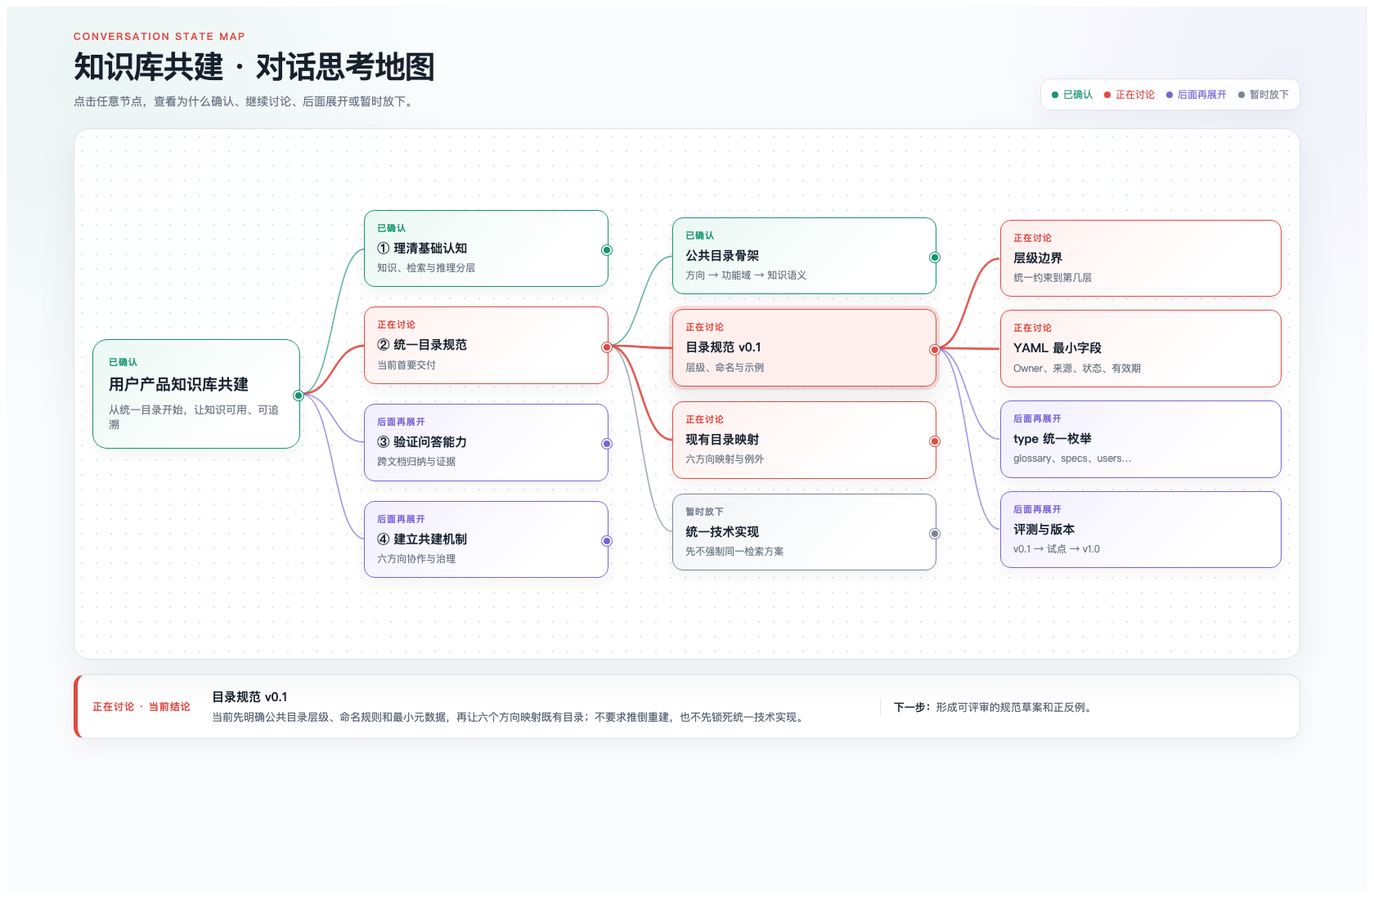
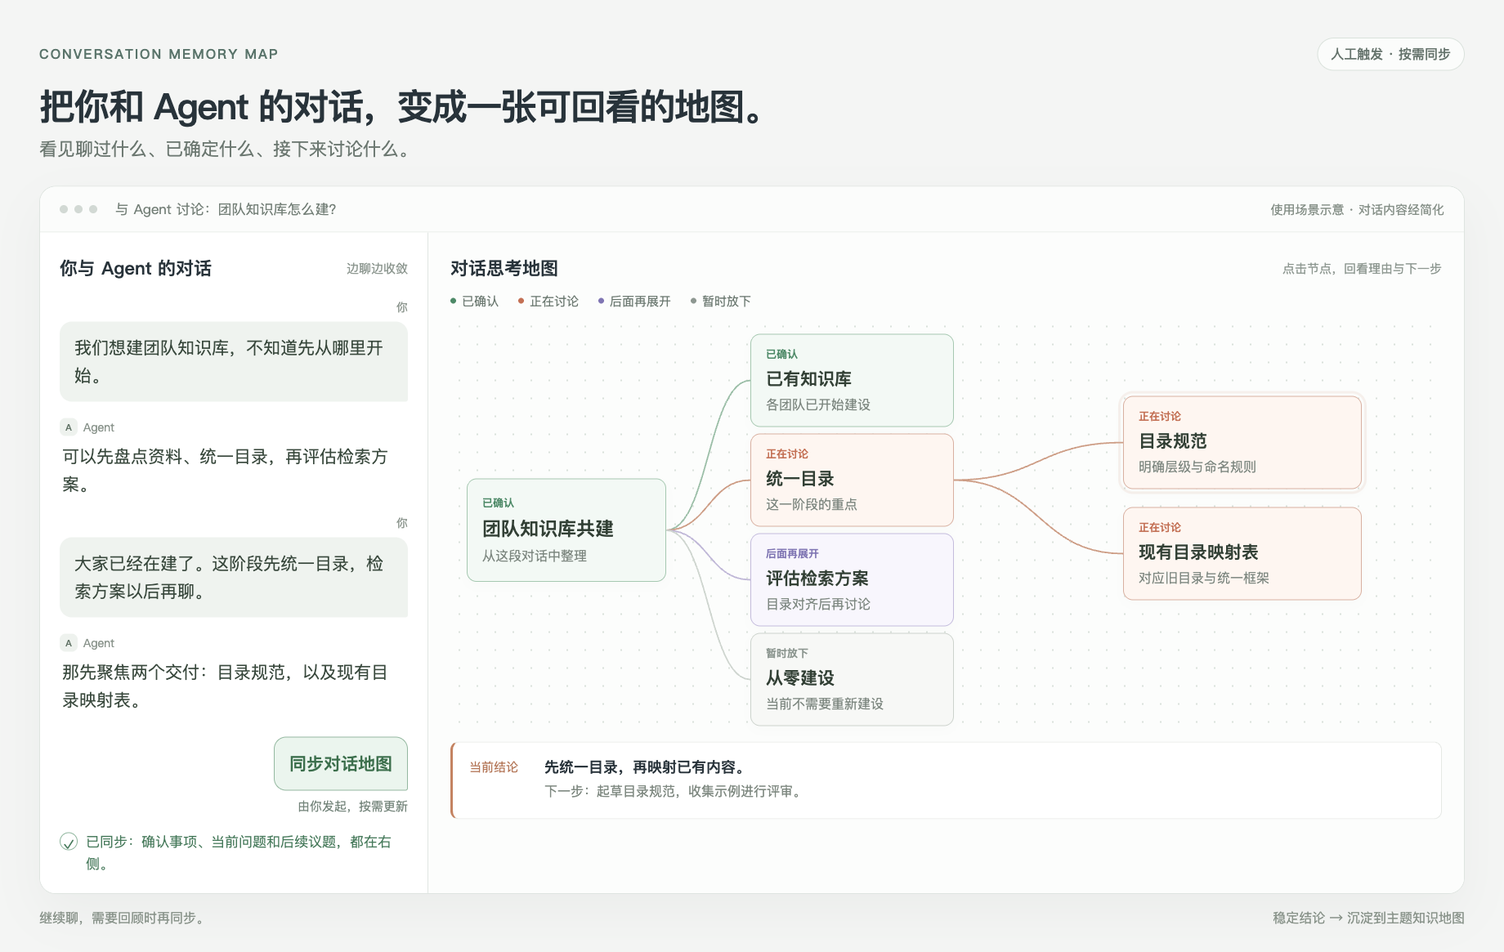
Clarify Agent conversation use cases and add bilingual side-by-side examples

diff --git a/examples/conversation-to-map.html b/examples/conversation-to-map.html
@@ -1,0 +1,74 @@
+<!doctype html>
+<html lang="zh-CN">
+<head>
+<meta charset="utf-8">
+<meta name="viewport" content="width=device-width, initial-scale=1">
+<title>Conversation Memory Map — Conversation to map</title>
+<style>
+*{box-sizing:border-box}body{margin:0;color:#25333b;background:#f3f5f4;font-family:Inter,"PingFang SC","Microsoft YaHei",system-ui,sans-serif}button{font:inherit}main{width:1840px;padding:46px 48px 30px;margin:auto}.brand{display:flex;align-items:center;justify-content:space-between;color:#53756a;font-size:16px;font-weight:650;letter-spacing:2px}.trigger-badge{color:#62746c;letter-spacing:0;border:1px solid #d8e2db;border-radius:30px;padding:8px 16px;background:#fafcfb;font-weight:500}h1{font-size:44px;line-height:1.2;letter-spacing:-1.6px;margin:17px 0 10px;font-weight:650}.subtitle{font-size:22px;color:#697870;margin:0 0 30px}.window{background:white;border:1px solid #dce4df;border-radius:20px;overflow:hidden;box-shadow:0 24px 60px #263a2c0c}.window-bar{height:56px;background:#fbfcfb;border-bottom:1px solid #e4e9e5;display:flex;align-items:center;gap:22px;padding:0 24px;color:#718077;font-size:17px}.dots{display:flex;gap:8px}.dots i{display:block;width:10px;height:10px;background:#d0d9d3;border-radius:100%}.window-label{flex:1}.window-note{font-size:15px;color:#839087}.workspace{display:grid;grid-template-columns:475px 1fr;min-height:748px}.conversation{padding:28px 24px 22px;border-right:1px solid #e0e6e2;background:#fff}.panel-title{display:flex;justify-content:space-between;align-items:center;font-size:22px;font-weight:600;margin:0 0 22px}.panel-title small{color:#8b9890;font-size:15px;font-weight:400}.message{margin:0 0 20px}.speaker{display:flex;align-items:center;gap:7px;font-size:14px;color:#87948b;margin:0 0 8px}.avatar{display:inline-grid;place-items:center;border-radius:7px;width:22px;height:22px;color:#5e7567;background:#edf2ee;font-size:11px;font-weight:600}.message p{font-size:21px;line-height:1.62;margin:0;color:#34483b}.message.user .speaker{justify-content:flex-end}.message.user p{background:#eef3ef;padding:15px 18px;border-radius:15px 15px 3px 15px}.message.agent{padding-right:8px}.message.agent p{padding-left:3px}.message.sync{margin:28px 0 20px}.message.sync p{display:table;margin-left:auto;border:1px solid #8ab99e;background:#e9f5ed;color:#267049;font-weight:600}.sync-caption{font-size:15px;color:#70857a;margin:8px 0 0;text-align:right}.reply{display:flex;gap:10px;color:#317a57;font-size:17px;line-height:1.6;margin-top:10px}.reply .check{display:inline-grid;place-items:center;flex:0 0 22px;height:22px;border:1px solid #82b69a;border-radius:100%;margin-top:2px}.map{padding:28px 27px 22px;background:#fcfdfc}.map .panel-title{margin-bottom:14px}.legend{display:flex;gap:24px;font-size:15px;color:#687970;margin-bottom:10px}.legend span{display:flex;gap:7px;align-items:center}.legend i{height:7px;width:7px;border-radius:50%;background:var(--color)}.confirmed{--color:#348b64;--soft:#f1f9f4;--line:#9dc9af}.active{--color:#d06a4d;--soft:#fff5f0;--line:#e0ae9e}.future{--color:#8174b7;--soft:#f8f6fd;--line:#c5bbdf}.parked{--color:#8b9790;--soft:#f6f8f6;--line:#cbd3cc}.tree{position:relative;height:502px;margin:2px 0 17px;background-image:radial-gradient(#d7e1da .8px,transparent .8px);background-size:22px 22px;border-radius:10px}.edges{position:absolute;inset:0;width:100%;height:100%;pointer-events:none}.edges path{fill:none;stroke-width:1.8}.node{position:absolute;display:flex;flex-direction:column;gap:7px;width:249px;min-height:103px;padding:14px 18px;border:1px solid var(--line);border-radius:12px;background:var(--soft);text-align:left;cursor:pointer;color:#2e4034;box-shadow:0 5px 15px #3b4e4105}.node .status{color:var(--color);font-size:13px;font-weight:600}.node strong{font-size:21px;line-height:1.35;font-weight:600}.node .note{color:#7a877f;font-size:16px;line-height:1.45}.node.selected{outline:3px solid #dba58d26;outline-offset:3px}.node:focus-visible{outline:3px solid #458464;outline-offset:3px}.node.root{left:20px;top:197px;width:244px;padding:19px 18px}.node.root strong{font-size:23px}.node.level-one{left:367px}.node.level-two{left:823px;width:292px}.node[data-id="existing"]{top:20px}.node[data-id="directory"]{top:142px}.node[data-id="search"]{top:264px}.node[data-id="rebuild"]{top:386px}.node[data-id="spec"]{top:96px}.node[data-id="mapping"]{top:232px}.detail{border:1px solid #e5e9e5;border-left:3px solid #cf7f5a;border-radius:10px;background:white;padding:17px 20px;min-height:95px;display:flex;gap:18px;align-items:flex-start}.detail-label{font-size:15px;min-width:74px;color:#bd714f;padding-top:2px}.detail-title{font-size:18px;display:block;margin-bottom:5px;font-weight:600}.detail p{margin:0;font-size:16px;color:#7c8980;line-height:1.6}.foot{display:flex;justify-content:space-between;gap:24px;font-size:16px;color:#87948a;margin-top:18px}.foot b{color:#597563;font-weight:500}.en h1{font-size:45px}.en .message p{font-size:20px;line-height:1.55}.en .message{margin-bottom:20px}.en .message.sync{margin-top:22px}.en .node strong{font-size:20px}.en .node.root strong{font-size:23px}.en .node .note{font-size:15px}.en .detail-label{min-width:120px}.en .panel-title small{font-size:14px}@media(max-width:1839px){main{margin:0}}
+</style>
+</head>
+<body>
+<main>
+  <div class="brand"><span>CONVERSATION MEMORY MAP</span><span class="trigger-badge" data-copy="badge"></span></div>
+  <h1 data-copy="headline"></h1>
+  <p class="subtitle" data-copy="subtitle"></p>
+  <div class="window">
+    <div class="window-bar"><span class="dots" aria-hidden="true"><i></i><i></i><i></i></span><span class="window-label" data-copy="project"></span><span class="window-note" data-copy="illustration"></span></div>
+    <div class="workspace">
+      <section class="conversation" aria-label="Conversation">
+        <h2 class="panel-title"><span data-copy="conversation"></span><small data-copy="conversationHint"></small></h2>
+        <div class="message user"><div class="speaker" data-copy="you"></div><p data-copy="userOne"></p></div>
+        <div class="message agent"><div class="speaker"><span class="avatar">A</span>Agent</div><p data-copy="agentOne"></p></div>
+        <div class="message user"><div class="speaker" data-copy="you"></div><p data-copy="userTwo"></p></div>
+        <div class="message agent"><div class="speaker"><span class="avatar">A</span>Agent</div><p data-copy="agentTwo"></p></div>
+        <div class="message user sync"><p data-copy="sync"></p><div class="sync-caption" data-copy="syncHint"></div></div>
+        <div class="reply"><span class="check" aria-hidden="true">✓</span><span data-copy="reply"></span></div>
+      </section>
+      <section class="map" aria-label="Conversation thinking map">
+        <h2 class="panel-title"><span data-copy="mapTitle"></span><small data-copy="mapHint"></small></h2>
+        <div class="legend"><span class="confirmed"><i></i><span data-copy="confirmed"></span></span><span class="active"><i></i><span data-copy="active"></span></span><span class="future"><i></i><span data-copy="future"></span></span><span class="parked"><i></i><span data-copy="parked"></span></span></div>
+        <div class="tree" id="tree"><svg class="edges" aria-hidden="true"></svg></div>
+        <aside class="detail" aria-live="polite"><span class="detail-label" data-copy="conclusion"></span><div><strong class="detail-title" id="detail-title"></strong><p id="detail-note"></p></div></aside>
+      </section>
+    </div>
+  </div>
+  <footer class="foot"><span data-copy="footerLeft"></span><span data-copy="footerRight"></span></footer>
+</main>
+<script>
+const en = location.hash === '#en';
+document.documentElement.lang=en?'en':'zh-CN';
+document.body.classList.toggle('en',en);
+const copy=en?{
+ badge:'Human-triggered sync',headline:'Your conversation with an Agent, mapped on demand.',subtitle:'Revisit what you discussed, what you decided, and what comes next.',project:'Planning a team knowledge base',illustration:'Illustrative scenario · simplified dialogue',conversation:'You + Agent',conversationHint:'Discuss and refine',you:'You',
+ userOne:'We want a team knowledge base. Where should we start?',agentOne:'We could inventory documents, agree on a structure, then evaluate search.',userTwo:'Teams already have their own. Let’s align the structure first and discuss search later.',agentTwo:'Then the first deliverables are a directory standard and a mapping of existing folders.',sync:'Sync the conversation map',syncHint:'An explicit request to update',reply:'Synced. Decisions and open threads are now on the right.',mapTitle:'Conversation thinking map',mapHint:'Click a node to revisit the reasoning',confirmed:'Confirmed',active:'Discussing',future:'Revisit later',parked:'Parked',conclusion:'Current conclusion',footerLeft:'Keep talking. Sync when you want to take stock.',footerRight:'Stable conclusions → topic knowledge map'
+}:{
+ badge:'人工触发 · 按需同步',headline:'把你和 Agent 的对话，变成一张可回看的地图。',subtitle:'看见聊过什么、已确定什么、接下来讨论什么。',project:'与 Agent 讨论：团队知识库怎么建？',illustration:'使用场景示意 · 对话内容经简化',conversation:'你与 Agent 的对话',conversationHint:'边聊边收敛',you:'你',
+ userOne:'我们想建团队知识库，不知道先从哪里开始。',agentOne:'可以先盘点资料、统一目录，再评估检索方案。',userTwo:'大家已经在建了。这阶段先统一目录，检索方案以后再聊。',agentTwo:'那先聚焦两个交付：目录规范，以及现有目录映射表。',sync:'同步对话地图',syncHint:'由你发起，按需更新',reply:'已同步：确认事项、当前问题和后续议题，都在右侧。',mapTitle:'对话思考地图',mapHint:'点击节点，回看理由与下一步',confirmed:'已确认',active:'正在讨论',future:'后面再展开',parked:'暂时放下',conclusion:'当前结论',footerLeft:'继续聊，需要回顾时再同步。',footerRight:'稳定结论 → 沉淀到主题知识地图'
+};
+document.querySelectorAll('[data-copy]').forEach(el=>el.textContent=copy[el.dataset.copy]);
+const nodes=en?[
+ {id:'root',cls:'root confirmed',status:'confirmed',title:'Team knowledge base',note:'Organized from this conversation',detail:'Start with what teams already have.',next:'Use the existing material to agree on a shared structure.'},
+ {id:'existing',parent:'root',cls:'level-one confirmed',status:'confirmed',title:'Existing content',note:'Teams have already started',detail:'Build on the existing knowledge bases.',next:'The user confirmed that teams are already creating their own.'},
+ {id:'directory',parent:'root',cls:'level-one active',status:'active',title:'Align the structure',note:'The focus for this phase',detail:'Align the directory structure first.',next:'Prepare a shared standard and map the existing team folders to it.'},
+ {id:'search',parent:'root',cls:'level-one future',status:'future',title:'Evaluate search',note:'Revisit after alignment',detail:'Discuss search after the structure is aligned.',next:'The user explicitly moved this question to a later phase.'},
+ {id:'rebuild',parent:'root',cls:'level-one parked',status:'parked',title:'Build from scratch',note:'Outside the current scope',detail:'A rebuild is outside the current scope.',next:'Use the teams’ existing work as the starting point.'},
+ {id:'spec',parent:'directory',cls:'level-two active selected',status:'active',title:'Directory standard',note:'Define levels and naming',detail:'Align the structure, then map existing folders.',next:'Next: draft the directory standard and collect examples for review.'},
+ {id:'mapping',parent:'directory',cls:'level-two active',status:'active',title:'Existing-folder mapping',note:'Connect old and shared structures',detail:'Map each team’s existing folders.',next:'Identify matches, exceptions, and areas that need clarification.'}
+]:[
+ {id:'root',cls:'root confirmed',status:'confirmed',title:'团队知识库共建',note:'从这段对话中整理',detail:'从各团队已有的知识库出发。',next:'以现有资料为基础，形成大家能共同使用的目录框架。'},
+ {id:'existing',parent:'root',cls:'level-one confirmed',status:'confirmed',title:'已有知识库',note:'各团队已开始建设',detail:'各团队已经在建设自己的知识库。',next:'这来自用户明确补充的现状，是后续讨论的前提。'},
+ {id:'directory',parent:'root',cls:'level-one active',status:'active',title:'统一目录',note:'这一阶段的重点',detail:'当前先统一目录层级框架。',next:'先明确共同规范，再把各团队的已有目录对应进来。'},
+ {id:'search',parent:'root',cls:'level-one future',status:'future',title:'评估检索方案',note:'目录对齐后再讨论',detail:'检索方案留到后续讨论。',next:'用户明确将这项议题放到后面，不作为本阶段的前置条件。'},
+ {id:'rebuild',parent:'root',cls:'level-one parked',status:'parked',title:'从零建设',note:'当前不需要重新建设',detail:'本阶段以已有建设成果为起点。',next:'从零重新建设不在当前范围内。'},
+ {id:'spec',parent:'directory',cls:'level-two active selected',status:'active',title:'目录规范',note:'明确层级与命名规则',detail:'先统一目录，再映射已有内容。',next:'下一步：起草目录规范，收集示例进行评审。'},
+ {id:'mapping',parent:'directory',cls:'level-two active',status:'active',title:'现有目录映射表',note:'对应旧目录与统一框架',detail:'把各团队现有目录映射到共同框架。',next:'识别可以直接对应的目录，以及需要单独讨论的例外。'}
+];
+const tree=document.getElementById('tree');
+for(const n of nodes){const el=document.createElement('button');el.type='button';el.dataset.id=n.id;el.className='node '+n.cls;el.setAttribute('aria-pressed',n.id==='spec'?'true':'false');for(const [tag,cls,text] of [['span','status',copy[n.status]],['strong','',n.title],['span','note',n.note]]){const child=document.createElement(tag);child.className=cls;child.textContent=text;el.append(child);}el.addEventListener('click',()=>select(n.id));tree.append(el);}
+function select(id){const n=nodes.find(n=>n.id===id);document.querySelectorAll('.node').forEach(el=>{el.classList.toggle('selected',el.dataset.id===id);el.setAttribute('aria-pressed',String(el.dataset.id===id));});document.getElementById('detail-title').textContent=n.detail;document.getElementById('detail-note').textContent=n.next;}
+function draw(){const svg=tree.querySelector('svg');const frame=tree.getBoundingClientRect();svg.setAttribute('viewBox',`0 0 ${frame.width} ${frame.height}`);svg.replaceChildren();for(const n of nodes.filter(n=>n.parent)){const a=tree.querySelector(`[data-id="${n.parent}"]`).getBoundingClientRect(),b=tree.querySelector(`[data-id="${n.id}"]`).getBoundingClientRect();const x=a.right-frame.left,y=a.top+a.height/2-frame.top,tx=b.left-frame.left,ty=b.top+b.height/2-frame.top,d=(tx-x)*.5;const p=document.createElementNS('http://www.w3.org/2000/svg','path');p.setAttribute('d',`M${x} ${y} C${x+d} ${y},${tx-d} ${ty},${tx} ${ty}`);p.setAttribute('stroke',{confirmed:'#92bfa5',active:'#d69a81',future:'#c1b6da',parked:'#ccd5ce'}[n.status]);svg.append(p);}}
+select('spec');draw();document.fonts.ready.then(draw);window.addEventListener('resize',draw);
+</script>
+</body>
+</html>

diff --git a/README_EN.md b/README_EN.md
@@ -2,15 +2,27 @@
 
 [中文](README.md) · [English](README_EN.md)
 
-Turn long, linear conversations into two maintainable views: a live map of the current discussion and a durable map of reusable knowledge.
+Turn conversations with your Agent into a visual map you can revisit.
 
-![Conversation thinking map example](examples/knowledge-base-conversation-map.png)
+You discuss requirements, compare options, and refine ideas with an Agent. As the conversation grows, it becomes harder to remember what you covered, why the direction changed, and what is still unresolved. Designed for Codex, this skill lets you keep thinking through conversation. When you want to take stock, say “Sync the conversation map” to see the discussion, current conclusions, and next steps on the right.
 
-## Why this skill exists
+![Conversation with an Agent on the left, an on-demand conversation map on the right](examples/conversation-to-map-en.png)
 
-Long conversations rarely suffer from a lack of content. They lose structure: what was discussed, why a decision was made, what remains open, and what should happen next all disappear beneath newer messages.
+*An illustrative scenario, not a screenshot of the Codex interface. The left panel shows a simplified conversation; the right panel organizes that conversation into a map. Updates are explicitly requested by the user.*
 
-This skill does not merely summarize the transcript. It maintains two complementary forms of memory:
+## When to use it
+
+**Working through requirements or options with an Agent.** A discussion often moves from “what should we build?” to “what is outside this phase?” The map keeps those branches and trade-offs visible, so you can revisit how the direction narrowed, not just read the final answer.
+
+**Learning or researching a topic with an Agent.** Concepts, examples, and untested ideas accumulate as you ask more questions. The map shows what is understood and what still needs exploration. Stable conclusions can then become reusable knowledge.
+
+**Taking stock during a long conversation, or returning to it later.** Instead of scrolling back through every message, review the current focus, confirmed points, and open questions before continuing.
+
+Think of it as navigation alongside your conversation, not a node for every message or a knowledge taxonomy disconnected from the discussion. A sync uses the conversation context and saved maps currently available to the Agent; it cannot automatically recover inaccessible history.
+
+## From conversation recall to reusable knowledge
+
+The skill maintains two complementary views:
 
 | Map | Purpose | What it keeps |
 |---|---|---|
@@ -75,8 +87,12 @@ conversation-memory-map/
 ├── references/map-spec.md         # English dual-map specification
 ├── references/map-spec.zh-CN.md   # Chinese dual-map specification
 └── examples/
-    └── knowledge-base-conversation-map.png
+    ├── knowledge-base-conversation-map.png # Chinese conversation + map
+    ├── conversation-to-map-en.png          # English scenario example
+    └── conversation-to-map.html            # Example source; #en for English
 ```
+
+Open the example HTML directly in a browser and click nodes to see their explanations. It demonstrates the presentation only; it does not read or listen to your real conversations.
 
 ## License
 

diff --git a/README.md b/README.md
@@ -2,15 +2,27 @@
 
 [中文](README.md) · [English](README_EN.md)
 
-把容易淹没在线性上下文里的长对话，转成两张可以持续维护的地图：一张追踪当前讨论状态，一张沉淀长期可复用知识。
+把你和 Agent 的对话，变成一张可以回看的信息地图。
 
-![知识库共建对话思考地图示例](examples/knowledge-base-conversation-map.png)
+你和 Agent 讨论需求、比较方案、澄清想法。聊得越久，越容易忘记之前说过什么、为什么改了方向、哪些问题还没解决。这个为 Codex 设计的 Skill，让你继续用对话思考，需要回顾时说一句“同步对话地图”，就在右侧看见讨论的脉络、当前结论和下一步。
 
-## 为什么做这个 Skill
+![左侧与 Agent 对话，右侧按需同步对话思考地图](examples/knowledge-base-conversation-map.png)
 
-长对话的问题通常不是“内容不够”，而是结构逐渐消失：聊过什么、为什么做出某个判断、哪些问题还没解决，都会被后续消息淹没。
+*使用场景示意，非 Codex 界面截图。左侧是经过简化的对话，右侧是由这段对话整理出的地图；更新由用户主动触发。*
 
-这个 Skill 不把聊天记录重新摘要一遍，而是维护两种互补的记忆：
+## 什么时候用
+
+**和 Agent 一起推敲需求或方案时。** 讨论常常会从“要做什么”转向“这阶段先不做什么”。地图保留这些分支和取舍，帮助你回看方向是怎么收敛的，而不只是留下一版最终答案。
+
+**和 Agent 一起学习、研究一个主题时。** 问题越问越多，概念、例子和待验证观点交织在一起。地图帮你看清哪些已经理解、哪些还需要展开；形成稳定结论后，再整理为以后可复用的知识。
+
+**长对话中途回顾，或隔一段时间回来继续时。** 不必从头翻聊天记录，先看当前焦点、已确认事项和开放问题，再接着聊。
+
+它是对话旁边的导航，不是要把每条消息都画成节点，也不是另起一套与讨论脱节的知识库目录。同步基于当前可访问的对话和已保存的地图，不会自动恢复已经不可见的历史。
+
+## 从对话回顾，到知识沉淀
+
+这个 Skill 维护两种互补的视图：
 
 | 地图 | 作用 | 主要内容 |
 |---|---|---|
@@ -75,8 +87,12 @@ conversation-memory-map/
 ├── references/map-spec.md         # 英文双地图规范
 ├── references/map-spec.zh-CN.md   # 中文双地图规范
 └── examples/
-    └── knowledge-base-conversation-map.png
+    ├── knowledge-base-conversation-map.png # 中文：左侧对话，右侧地图
+    ├── conversation-to-map-en.png          # 英文场景示例
+    └── conversation-to-map.html            # 示例源文件，#en 切换英文
 ```
+
+示例 HTML 可直接在浏览器中打开，点击节点查看对应解释。它用于演示呈现方式，不会读取或监听你的实际对话。
 
 ## License
 

diff --git a/SKILL.md b/SKILL.md
@@ -1,9 +1,11 @@
 ---
 name: conversation-memory-map
-description: Turn long, linear conversations into a traceable discussion-state map and a durable topic knowledge map. Use only when the user explicitly asks to create, sync, update, review, or preserve a conversation map, or invokes $conversation-memory-map; do not run on ordinary conversation turns.
+description: Turn conversations with an AI agent into a visual map of discussion branches, decisions, and open questions, with reusable conclusions kept in a topic knowledge map. Use only when the user explicitly asks to create, sync, update, review, or preserve a conversation map, or invokes $conversation-memory-map; do not run on ordinary conversation turns.
 ---
 
 # Conversation Memory Map
+
+Help a user revisit an ongoing conversation with an Agent: what they discussed, why the direction changed, what is settled, and what comes next. Useful for refining requirements, comparing approaches, researching a topic, and resuming a long discussion. Map the actual conversation, not a generic taxonomy of its subject.
 
 Maintain two linked but distinct views:
 
@@ -17,6 +19,8 @@ If the user asks for a continuous workflow without specifying a view, update bot
 ## Workflow
 
 Read the current conversation and any existing maps. Identify the governing question, major branches, confirmed conclusions, current focus, future questions, parked items, evidence, and next actions. Organize by meaning rather than transcript chronology. Do not turn every message into a node.
+
+Use only available conversation context and saved artifacts. If earlier messages are inaccessible, state that limitation instead of inventing the missing discussion or implying complete recall. Distinguish user-confirmed decisions from Agent suggestions and unresolved hypotheses.
 
 Update an existing map in place when it covers the same topic. Avoid generating a new file or browser tab on every sync. Preserve alternative versions the user explicitly asked to keep.
 

diff --git a/SKILL.zh-CN.md b/SKILL.zh-CN.md
@@ -1,5 +1,7 @@
 # 对话记忆地图 Skill（中文版）
 
+帮助用户回顾与 Agent 的持续对话：聊过什么、为什么改变方向、哪些已确定、下一步是什么。适用于推敲需求、比较方案、研究主题，以及回来继续一段长讨论。整理真实对话的脉络，而不是绘制一张通用的主题分类图。
+
 维护两个彼此关联、用途不同的视图：
 
 - **对话思考地图**是工作记忆，回答“我们在讨论什么、走到哪里、为什么保留或暂放这个分支”。
@@ -12,6 +14,8 @@
 ## 工作方法
 
 阅读当前对话和已有地图，识别总命题、主要分支、已确认结论、当前焦点、后续问题、暂放事项、依据和下一步。按照意义组织，不按消息时间顺序复述，也不把每句话都变成节点。
+
+只依据可访问的对话上下文和已保存的产物。早期消息不可见时应说明范围，不编造缺失讨论，也不暗示拥有完整记忆。区分用户确认的决定、Agent 提出的建议和未解决的假设。
 
 同一主题已有地图时原位更新，不要每次产生新文件或新标签页。保留用户明确要求保留的其他版本。
 
